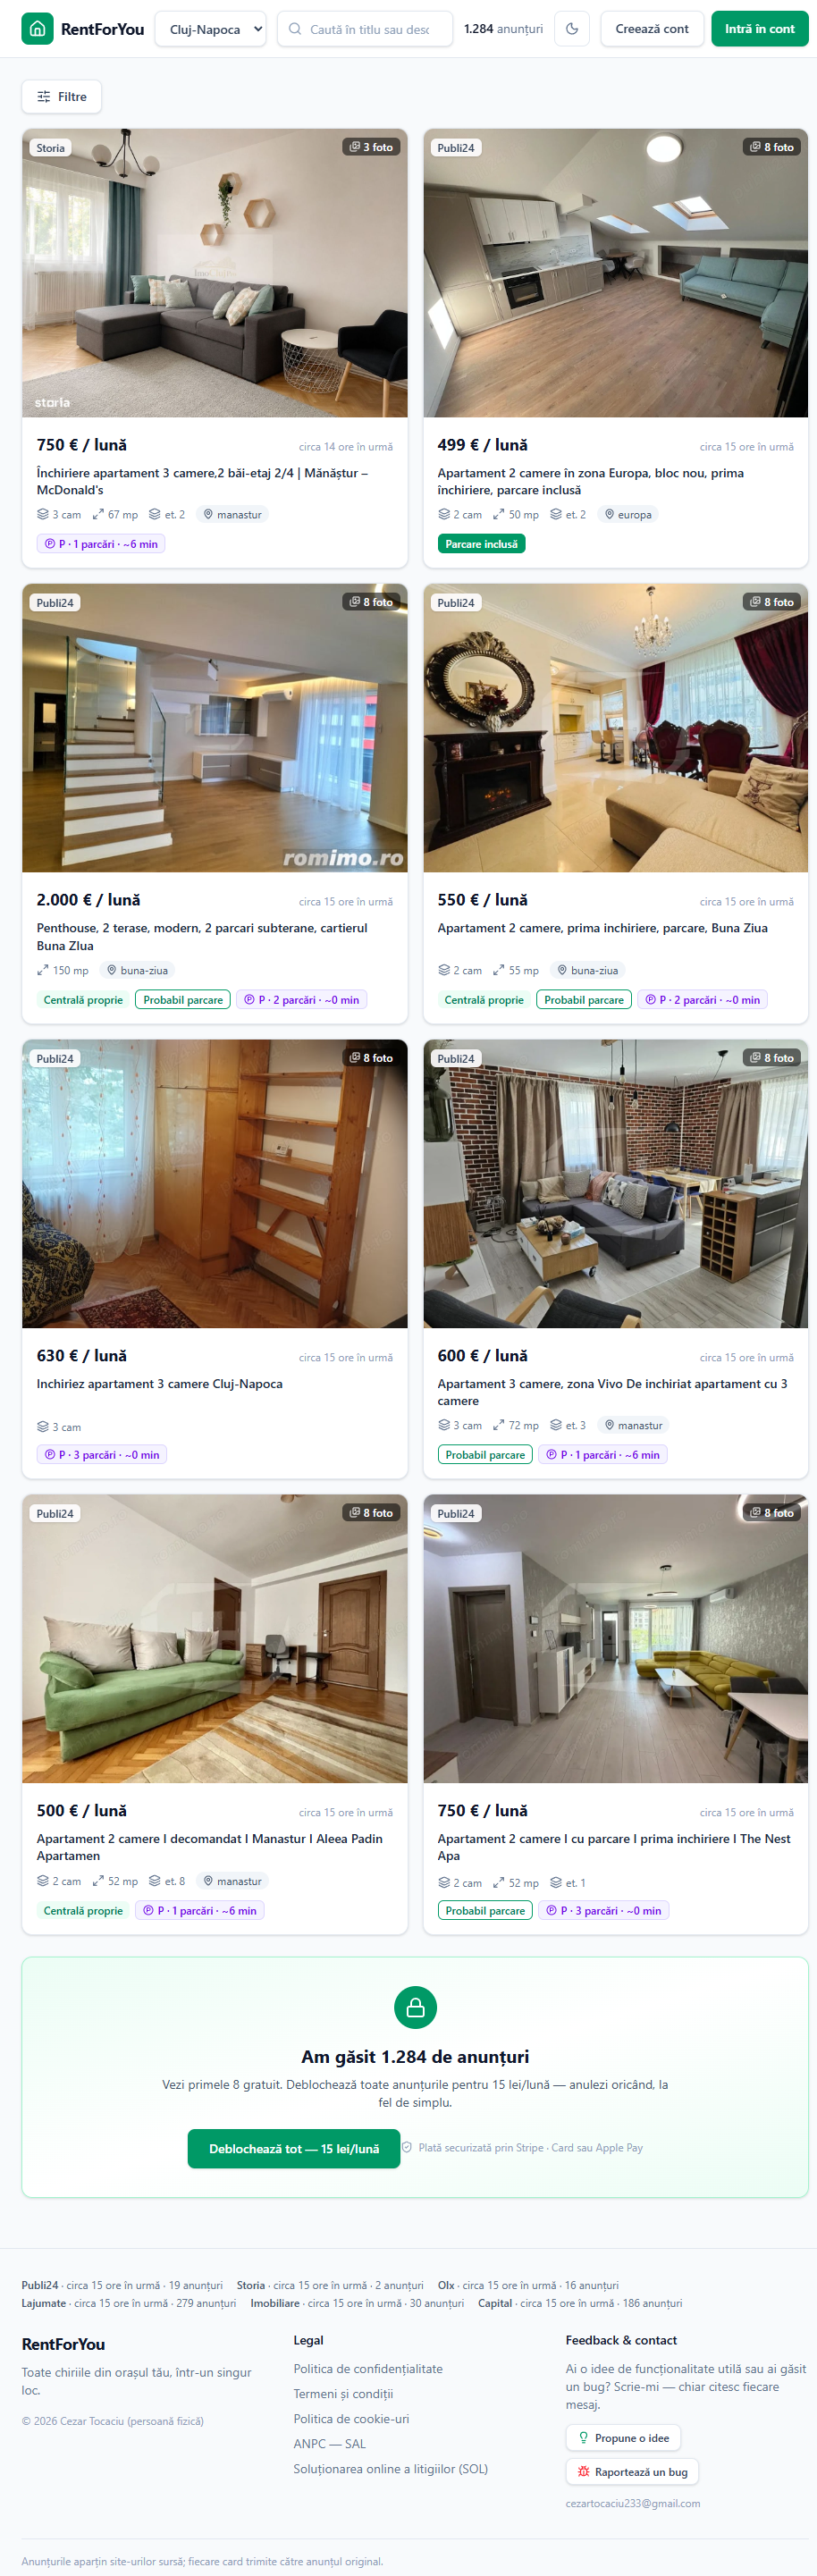
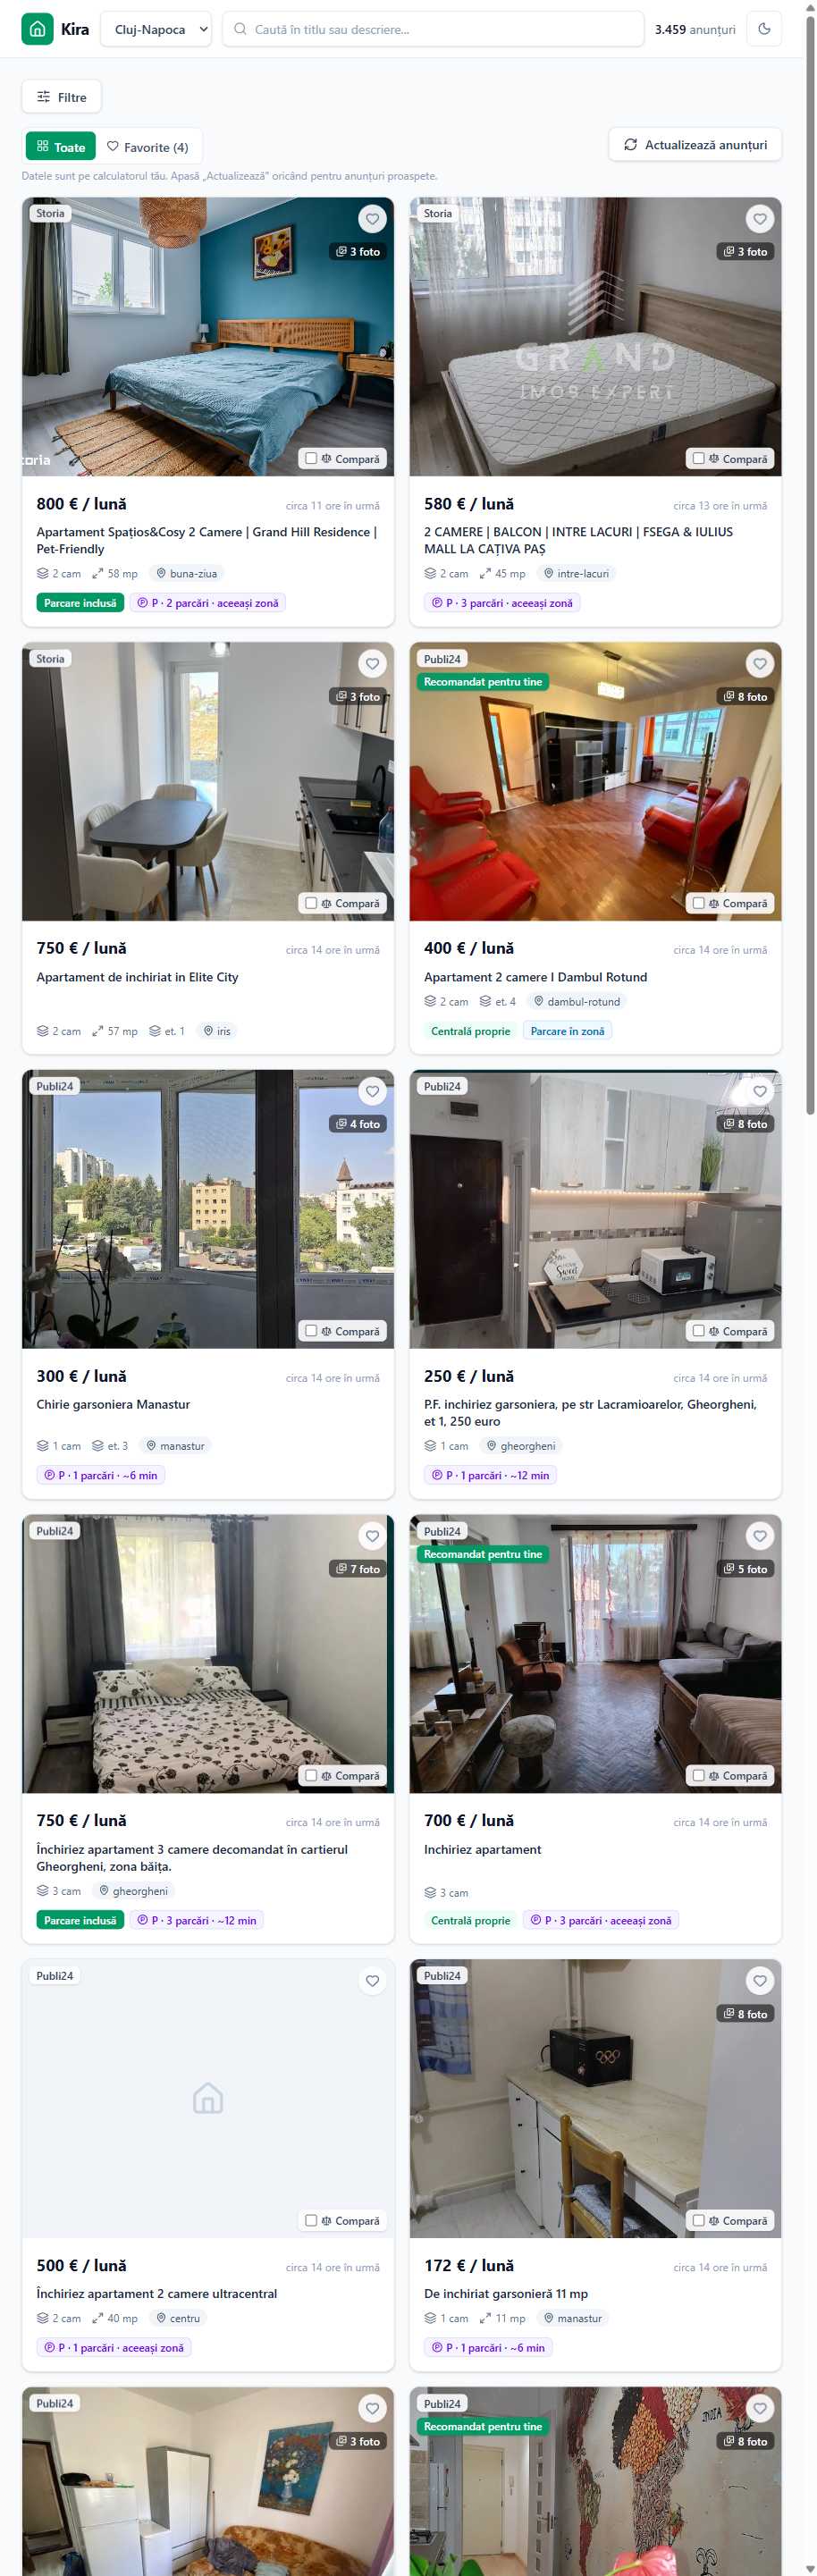
docs: refresh promo + screenshots for public launch
- add Instagram-story poster (docs/promo/poster.html + rendered PNG)
  showing real filter panel + listings, with feature callouts
  (heating, parking, price-per-person, distance-via-Maps)
- replace stale README screenshots (old name/paywall/Capital) with
  current Kira light+dark listings views
- drop unused stale screenshots (filter-heating, mobile-home)
- add a visible "star the repo" ask to README.md and README.ro.md

diff --git a/docs/promo/poster.html b/docs/promo/poster.html
@@ -1,0 +1,125 @@
+<!doctype html>
+<html lang="ro">
+<head>
+<meta charset="utf-8" />
+<title>Kira — poster story</title>
+<style>
+  @import url('https://fonts.googleapis.com/css2?family=Inter:wght@400;500;600;700;800;900&display=swap');
+  * { margin:0; padding:0; box-sizing:border-box; }
+  html,body { background:#0a0a0a; }
+
+  .poster {
+    width:1080px; height:1920px;
+    background:
+      radial-gradient(1200px 760px at 50% -12%, #10b98122, transparent 60%),
+      linear-gradient(180deg,#0b0f0d 0%,#0a0a0a 55%,#070707 100%);
+    color:#f5f5f5; font-family:'Inter',system-ui,sans-serif;
+    position:relative; overflow:hidden;
+    display:flex; flex-direction:column; padding:70px 64px 56px;
+  }
+  .poster::before{
+    content:""; position:absolute; inset:0;
+    background-image:radial-gradient(#ffffff0a 1px,transparent 1px);
+    background-size:34px 34px; pointer-events:none;
+  }
+
+  /* header */
+  .brand{ display:flex; align-items:center; gap:16px; }
+  .logo{ width:66px; height:66px; border-radius:18px;
+    background:linear-gradient(135deg,#10b981,#059669);
+    display:flex; align-items:center; justify-content:center;
+    box-shadow:0 10px 28px #10b98155; }
+  .logo svg{ width:38px; height:38px; stroke:#fff; fill:none; stroke-width:2.4; }
+  .brand .name{ font-size:42px; font-weight:900; letter-spacing:-1px; }
+
+  h1{ margin-top:26px; font-size:60px; line-height:1.04; font-weight:900; letter-spacing:-1.8px; }
+  h1 .accent{ color:#10b981; }
+  .sub{ margin-top:16px; font-size:26px; line-height:1.38; font-weight:500; color:#cfd8d3; max-width:920px; }
+
+  /* hero: filters + listings side by side */
+  .hero{ margin-top:34px; display:flex; gap:22px; align-items:flex-start; }
+  .panel{ border-radius:22px; overflow:hidden; border:1px solid #ffffff1a;
+    box-shadow:0 34px 80px #000000aa, 0 0 0 7px #10b98112; background:#0d100e; }
+  .panel.filters{ flex:0 0 320px; height:1000px; }
+  .panel.filters img{ width:100%; display:block; }
+  .panel.listings{ flex:1; position:relative; height:1000px; }
+  .panel.listings img{ width:100%; display:block; }
+  .panel.listings::after{ content:""; position:absolute; left:0; right:0; bottom:0; height:90px;
+    background:linear-gradient(180deg,transparent,#0a0a0a); }
+
+  /* feature pills */
+  .features{ margin-top:30px; display:grid; grid-template-columns:1fr 1fr; gap:14px; }
+  .feat{ display:flex; align-items:center; gap:16px;
+    background:#11161324; border:1px solid #ffffff14; border-radius:18px; padding:16px 20px; }
+  .feat.wide{ grid-column:1 / -1; }
+  .feat .ico{ flex:0 0 52px; width:52px; height:52px; border-radius:13px;
+    background:#10b9811f; border:1px solid #10b98140;
+    display:flex; align-items:center; justify-content:center; }
+  .feat .ico svg{ width:28px; height:28px; stroke:#10b981; fill:none; stroke-width:2.2; }
+  .feat .txt b{ display:block; font-size:24px; font-weight:800; letter-spacing:-.3px; }
+  .feat .txt span{ display:block; margin-top:3px; font-size:20px; color:#b8c2bd; line-height:1.28; }
+
+  /* footer */
+  .footer{ margin-top:auto; padding-top:36px; }
+  .tags{ display:flex; gap:14px; flex-wrap:wrap; }
+  .tag{ font-size:25px; font-weight:700; color:#0a0a0a; background:#10b981; border-radius:999px; padding:11px 24px; }
+  .tag.ghost{ background:transparent; color:#10b981; border:2px solid #10b98166; }
+  .link{ margin-top:26px; font-size:33px; font-weight:800; letter-spacing:-.5px; display:flex; align-items:center; gap:14px; }
+  .link svg{ width:32px; height:32px; fill:#f5f5f5; }
+  .link .u{ color:#10b981; }
+  .note{ margin-top:12px; font-size:21px; color:#8a948f; }
+</style>
+</head>
+<body>
+  <div class="poster">
+    <div class="brand">
+      <div class="logo"><svg viewBox="0 0 24 24" stroke-linecap="round" stroke-linejoin="round"><path d="M3 11l9-8 9 8"/><path d="M5 10v10h14V10"/><path d="M10 20v-6h4v6"/></svg></div>
+      <div class="name">Kira</div>
+    </div>
+
+    <h1>Toate chiriile din<br/>orașul tău, <span class="accent">filtrate<br/>cum trebuie.</span></h1>
+    <p class="sub">Adună anunțurile de pe Storia, OLX, Imobiliare, Publi24 și Lajumate într-un singur loc — cu filtre pe care site-urile normale nu le au.</p>
+
+    <div class="hero">
+      <div class="panel filters"><img src="poster-filters-src.png" alt="Filtre Kira" /></div>
+      <div class="panel listings"><img src="poster-listings-src.png" alt="Anunțuri Cluj-Napoca" /></div>
+    </div>
+
+    <div class="features">
+      <div class="feat">
+        <div class="ico"><svg viewBox="0 0 24 24" stroke-linecap="round" stroke-linejoin="round"><path d="M8.5 14.5A4.5 4.5 0 0 0 12 22a4.5 4.5 0 0 0 3.5-7.5C14 13 13 11 13 9c0-1.5-1-3-1-3s-3 2-3 5c0 1.2-.5 2-.5 3.5z"/></svg></div>
+        <div class="txt"><b>Centrală vs termoficare</b><span>separate automat din anunț</span></div>
+      </div>
+      <div class="feat">
+        <div class="ico"><svg viewBox="0 0 24 24" stroke-linecap="round" stroke-linejoin="round"><rect x="4" y="4" width="16" height="16" rx="3"/><path d="M9 16V8h3.5a2.5 2.5 0 0 1 0 5H9"/></svg></div>
+        <div class="txt"><b>Parcare inclusă / de închiriat</b><span>cu distanța pe jos până la anunț</span></div>
+      </div>
+      <div class="feat">
+        <div class="ico"><svg viewBox="0 0 24 24" stroke-linecap="round" stroke-linejoin="round"><path d="M16 14a4 4 0 1 0-8 0"/><circle cx="12" cy="7" r="3"/><path d="M20 21a8 8 0 0 0-16 0"/></svg></div>
+        <div class="txt"><b>Preț pe persoană</b><span>cât plătești dacă împărți chiria</span></div>
+      </div>
+      <div class="feat">
+        <div class="ico"><svg viewBox="0 0 24 24" stroke-linecap="round" stroke-linejoin="round"><line x1="4" y1="10" x2="20" y2="10"/><line x1="4" y1="14" x2="14" y2="14"/><line x1="4" y1="6" x2="20" y2="6"/></svg></div>
+        <div class="txt"><b>Filtre preț, camere, cartier</b><span>vezi doar ce te interesează</span></div>
+      </div>
+      <div class="feat wide">
+        <div class="ico"><svg viewBox="0 0 24 24" stroke-linecap="round" stroke-linejoin="round"><circle cx="12" cy="9" r="3"/><path d="M12 2a7 7 0 0 0-7 7c0 5 7 13 7 13s7-8 7-13a7 7 0 0 0-7-7z"/></svg></div>
+        <div class="txt"><b>Distanța de la facultate (sau orice adresă a ta)</b><span>calculată pe Google Maps — pe jos și cu autobuzul, direct pe fiecare card</span></div>
+      </div>
+    </div>
+
+    <div class="footer">
+      <div class="tags">
+        <span class="tag">100% gratis</span>
+        <span class="tag ghost">fără cont</span>
+        <span class="tag ghost">local, pe calculatorul tău</span>
+      </div>
+      <div class="link">
+        <svg viewBox="0 0 24 24"><path d="M12 .5a12 12 0 0 0-3.8 23.4c.6.1.8-.3.8-.6v-2c-3.3.7-4-1.6-4-1.6-.6-1.4-1.3-1.8-1.3-1.8-1.1-.7.1-.7.1-.7 1.2.1 1.8 1.2 1.8 1.2 1 1.8 2.8 1.3 3.5 1 .1-.8.4-1.3.7-1.6-2.7-.3-5.5-1.3-5.5-5.9 0-1.3.5-2.4 1.2-3.2-.1-.3-.5-1.5.1-3.2 0 0 1-.3 3.3 1.2a11.5 11.5 0 0 1 6 0C17.3 5 18.3 5.3 18.3 5.3c.6 1.7.2 2.9.1 3.2.8.8 1.2 1.9 1.2 3.2 0 4.6-2.8 5.6-5.5 5.9.4.4.8 1.1.8 2.2v3.3c0 .3.2.7.8.6A12 12 0 0 0 12 .5z"/></svg>
+        github.com/<span class="u">Cezart3/KiraImobiliare</span>
+      </div>
+      <div class="note">Proiect open-source · © 2026 Cezar Tocaciu</div>
+    </div>
+  </div>
+</body>
+</html>

diff --git a/README.md b/README.md
@@ -13,6 +13,9 @@ sites don't offer:
 It runs **100% locally — free, no account, no payment.** Your data stays on your
 machine and every card links back to the original ad on the source site.
 
+> ⭐ **If you use it, like the idea, or it saves you some hassle — please give the repo a star.**
+> It costs you one click and helps the project enormously (it's how other students find it). Thank you! 🙏
+
 > 🐶 **Why "Kira"?** It's my dog's name — my companion in frustration during the months
 > I spent hunting for a rental with six browser tabs open at once. This tool fixes the
 > exact headache we went through together, so it carries her name.
@@ -101,7 +104,10 @@ cd backend
 
 If the project gains traction: **for-sale property listings** (not just rentals) and
 more cities. **Ideas or a bug?** Open an issue or email [email redacted] —
-I read every message. A ⭐ helps.
+I read every message.
+
+> ⭐ **Enjoying Kira? Star the repo** — it's the single most helpful thing you can do, it
+> takes one click, and it's how more students discover the tool. Much appreciated! 🙏
 
 ## Legal note
 

diff --git a/README.ro.md b/README.ro.md
@@ -13,6 +13,9 @@ nu le au:
 Rulează **100% local, gratuit, fără cont, fără plată.** Datele rămân pe calculatorul
 tău. Fiecare card te trimite la anunțul original de pe site-ul sursă.
 
+> ⭐ **Dacă îl folosești, îți place ideea sau ți-a ușurat căutarea — dă un star la repo, te rog.**
+> Te costă un click și ajută enorm proiectul (așa îl găsesc și alți studenți). Mulțumesc! 🙏
+
 > 🐶 **De ce „Kira"?** E numele cățelușei mele — partenera mea de frustrare în lunile
 > în care căutam o chirie jonglând cu 6 site-uri deschise în paralel. Tool-ul ăsta
 > rezolvă fix bătaia de cap prin care am trecut împreună, așa că îi poartă numele.
@@ -166,7 +169,10 @@ frontend/  React 18 · TypeScript · Tailwind v4 · TanStack Query
 
 Dacă proiectul prinde, urmează **anunțuri de vânzare imobiliare** (nu doar chirii) și
 mai multe orașe. **Ai idei sau ai găsit un bug?** Deschide un *issue* pe GitHub sau
-scrie la [email redacted] — chiar citesc fiecare mesaj. Un ⭐ pe repo ajută.
+scrie la [email redacted] — chiar citesc fiecare mesaj.
+
+> ⭐ **Îți place Kira? Dă-i un star pe GitHub** — e cel mai util lucru pe care-l poți face,
+> durează un click, și așa află și alți studenți de tool. Mulțumesc mult! 🙏
 
 ## Notă legală
 